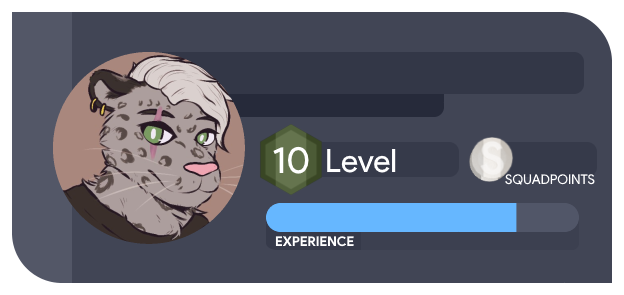
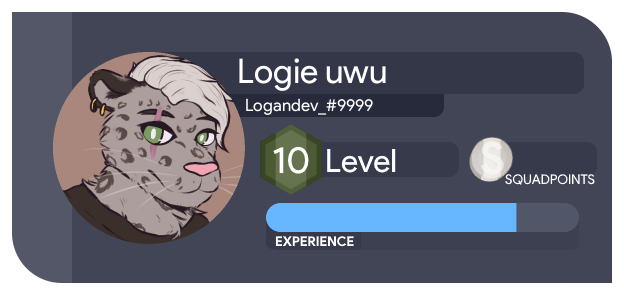
added EVEN more stuff uwu

Changed region(s): [[0.3654, 0.1831, 0.6394, 0.3051], [0.3958, 0.3356, 0.609, 0.3966]]

diff --git a/generateCard.js b/generateCard.js
@@ -1,6 +1,7 @@
-const { createCanvas, loadImage, Image } = require('canvas');
+const { createCanvas, loadImage, Image, registerFont } = require('canvas');
 const fs = require("fs")
 var Request = require('pixl-request');
+registerFont('./statCards/Product Sans Regular.ttf', {family: 'Product Sans'});
 
 //generateCard = function(xp, points, level, avatarURL, username, nickname, maxXP, userID) {
 
@@ -9,6 +10,8 @@ maxXP = 50
 avatarURL = "https://cdn.discordapp.com/avatars/275345779823214592/83e3e6a2a5812eec5e5f6f69ca489ab4.png?size=1024"
 level = 10
 userID = 50
+username = "Logandev_#9999"
+nickname = "Logie uwu"
 
   const canvas = createCanvas(624, 295);
   const ctx = canvas.getContext('2d')
@@ -22,17 +25,22 @@ userID = 50
       var avatar = new Image();
       avatar.src = data;
       ctx.drawImage(avatar, 43, 43, 211, 204);
-      ctx.fillStyle="#66B7FF";
+      ctx.fillStyle = "#66B7FF";
       loadImage('./statCards/final/foreground.png').then((frontImage) => {
         ctx.fillRect(266,203, (313/maxXP)*xp,29);
         ctx.drawImage(frontImage, 0, 0, 624, 295)
         loadImage('./statCards/final/level/' + level + '.png').then((level) => {
           ctx.drawImage(level, 251, 120, 80, 80)
+          ctx.fillStyle = "#ffffff";
+          ctx.font = '17px "Product Sans"'
+          ctx.fillText(username, 245, 111);
+          ctx.font = '34px "Product Sans" bold'
+          ctx.fillText(nickname, 237, 83);
           const out = fs.createWriteStream(__dirname + '/userCards/' + userID + '.png')
           const stream = canvas.createPNGStream()
           stream.pipe(out)
           out.on('finish', () =>  {
-            return (__dirname + '/userCards/' + userID + '.png')
+            console.log("rendered stat card for " + userID)
           })
         })
       })
